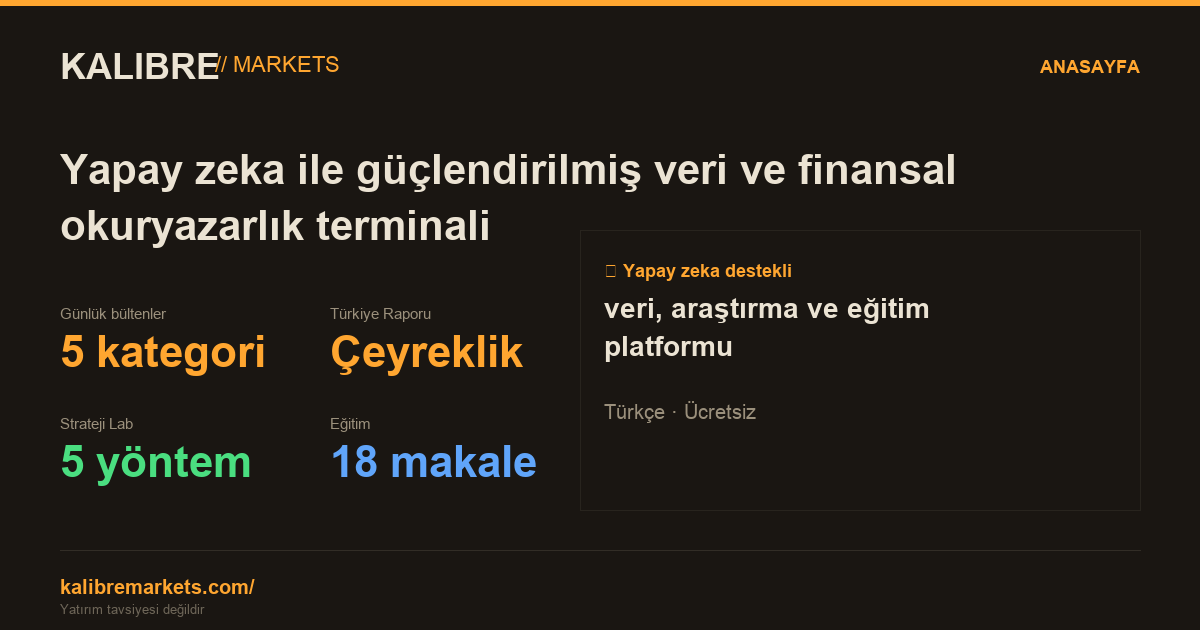
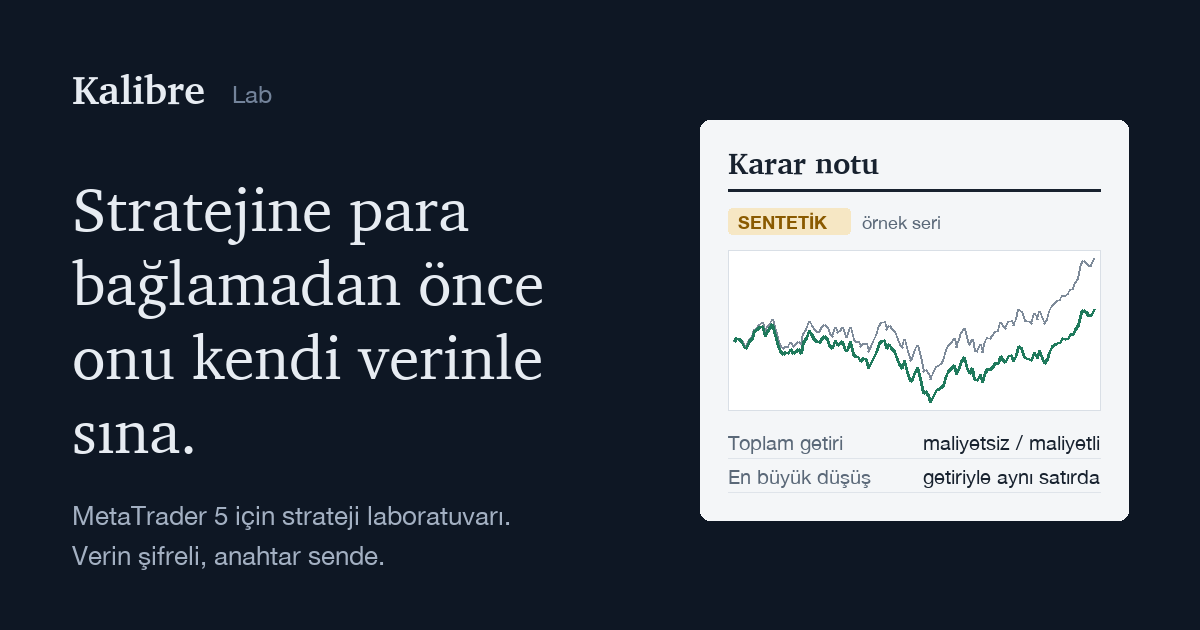
Paylaşım görseli yeni tasarımda

diff --git a/yerel/og-uret.py b/yerel/og-uret.py
@@ -1,0 +1,39 @@
+# Kullanım: python3 yerel/og-uret.py (site kökünden çalıştır)
+# Paylaşım görseli (1200x630): koyu mürekkep zemin, rapor serifi başlık, sağda karar notu kartı.
+from PIL import Image, ImageDraw, ImageFont
+import math, random
+W,H=1200,630
+im=Image.new('RGB',(W,H),'#0e1724'); d=ImageDraw.Draw(im)
+serif=lambda s,i=0: ImageFont.truetype('/System/Library/Fonts/Supplemental/Charter.ttc',s,index=i)
+sans=lambda s: ImageFont.truetype('/System/Library/Fonts/HelveticaNeue.ttc',s,index=0)
+sansB=lambda s: ImageFont.truetype('/System/Library/Fonts/HelveticaNeue.ttc',s,index=1)
+d.text((72,64),'Kalibre',font=serif(40,3),fill='#e7ecf2')
+d.text((232,80),'Lab',font=sans(24),fill='#73839a')
+y=170
+for satir in ['Stratejine para','bağlamadan önce','onu kendi verinle','sına.']:
+    d.text((72,y),satir,font=serif(62,0),fill='#e7ecf2'); y+=74
+d.text((72,500),'MetaTrader 5 için strateji laboratuvarı.',font=sans(26),fill='#a3b0c2')
+d.text((72,540),'Verin şifreli, anahtar sende.',font=sans(26),fill='#a3b0c2')
+# karar notu kartı
+x0,y0,x1,y1=700,120,1128,520
+d.rounded_rectangle((x0,y0,x1,y1),radius=10,fill='#f4f6f8')
+d.text((x0+28,y0+24),'Karar notu',font=serif(30,3),fill='#18222f')
+d.line((x0+28,y0+70,x1-28,y0+70),fill='#18222f',width=3)
+d.rounded_rectangle((x0+28,y0+88,x0+150,y0+114),radius=4,fill='#f6e7c4')
+d.text((x0+38,y0+91),'SENTETİK',font=sansB(18),fill='#8a5a00')
+d.text((x0+162,y0+91),'örnek seri',font=sans(18),fill='#5a6878')
+# grafik
+gx0,gy0,gx1,gy1=x0+28,y0+130,x1-28,y0+290
+d.rectangle((gx0,gy0,gx1,gy1),fill='#ffffff',outline='#d9dfe6')
+random.seed(7); v=1.0; a=[]; b=[]
+for i in range(140):
+    v*=1+random.gauss(0.0008,0.012); a.append(v); b.append(v*(1-0.0006*i))
+mn,mx=min(a+b),max(a+b)
+pt=lambda s: [(gx0+6+i*(gx1-gx0-12)/(len(s)-1), gy1-8-(x-mn)/(mx-mn)*(gy1-gy0-16)) for i,x in enumerate(s)]
+d.line(pt(a),fill='#7d8a99',width=2); d.line(pt(b),fill='#1f7a5c',width=3)
+satirlar=[('Toplam getiri','maliyetsiz / maliyetli'),('En büyük düşüş','getiriyle aynı satırda')]
+yy=y0+310
+for k,v in satirlar:
+    d.text((x0+28,yy),k,font=sans(20),fill='#5a6878'); d.text((x1-28,yy),v,font=sans(20),fill='#18222f',anchor='ra')
+    yy+=34; d.line((x0+28,yy-6,x1-28,yy-6),fill='#dfe4ea',width=1)
+im.save('og-default.png',optimize=True); print('ok')

diff --git a/docs/YAYIN-ONCESI.md b/docs/YAYIN-ONCESI.md
@@ -27,7 +27,7 @@
 - [ ] **Eklentileri yükle**: lisans sırrıyla derlenmiş `.ex5`'ler, Upstash bilgileri ortamdayken
       `node yerel/eklenti-yukle.mjs kopru <yol> 1.00` ve `... motor <yol> 0.20`.
 - [ ] Kurulum sayfasına ekran görüntüleri (hesap numarası ve ad görünmeyecek şekilde).
-- [ ] OG görseli (`og-default.png`) yeni tasarıma göre.
+- [x] OG görseli yeni tasarımda (`yerel/og-uret.py`).
 - [ ] Test kartıyla gerçek Stripe test modunda uçtan uca deneme (önizleme adresinde).
 
 ## Bilinen notlar
